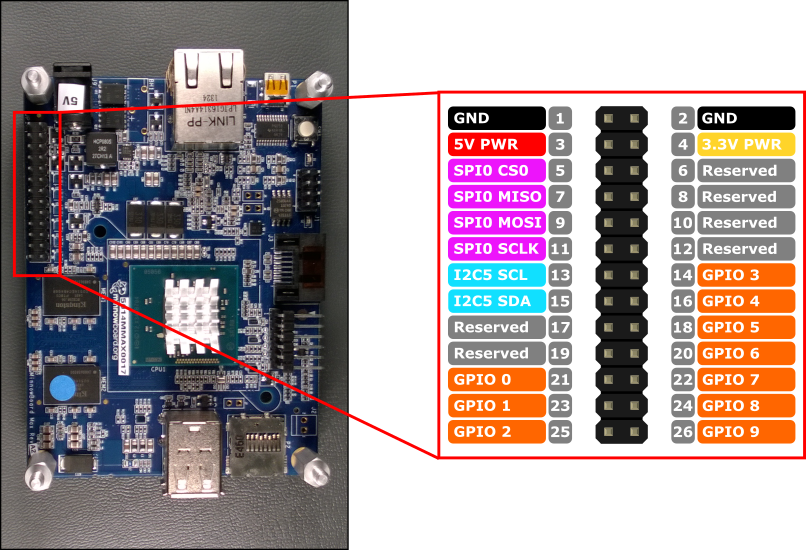
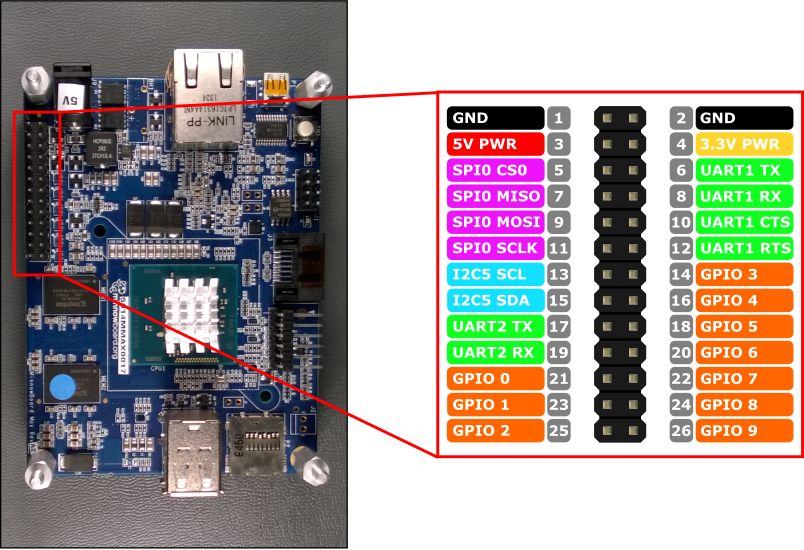
Adding Serial UART to MBM PinMappings

diff --git a/en-US/win10/samples/PinMappingsMBM.md b/en-US/win10/samples/PinMappingsMBM.md
@@ -13,6 +13,7 @@ lang: en-US
 Hardware interfaces for the MinnowBoard Max are exposed through the 26-pin header **JP1** on the board. Functionality includes:
 
 * **10x** - GPIO pins
+* **2x** - Serial UARTs
 * **1x** - SPI bus
 * **1x** - I2C bus
 * **1x** - 5V power pin
@@ -23,27 +24,29 @@ Note that the MinnowBoard Max uses 3.3V logic levels on all IO pins. In addition
  These level shifters appear as open collector outputs with a **10K&#x2126; resistive pull-up, and the pull-up is present regardless of whether the IO is set to input or output.**
  The open-collector nature of the level shifters means is that the pins can output a '0' strongly, but only weakly output a '1'. This is important to keep in mind when attaching devices which draw current from the pins (such as an LED). See the [Blinky Sample]({{site.baseurl}}/{{page.lang}}/win10/samples/Blinky.htm) for the correct way to interface an LED to the MinnowBoard Max.
 
-
 ##GPIO Pins
 
 The following GPIO pins are accessible through APIs:
 
-* **GPIO 0**
-* **GPIO 1**
-* **GPIO 2**
-* **GPIO 3**
-* **GPIO 4**
-* **GPIO 5**
-* **GPIO 6**
-* **GPIO 7**
-* **GPIO 8**
-* **GPIO 9**
-
+{:.table.table-bordered}
+| GPIO# | Header Pin         |
+|-------|--------------------|
+| 0     | 21                 |
+| 1     | 23                 |
+| 2     | 25                 |
+| 3     | 14                 |
+| 4     | 16                 |
+| 5     | 18                 |
+| 6     | 20                 |
+| 7     | 22                 |
+| 8     | 24                 |
+| 9     | 26                 |
+         
 As an example, the following code opens **GPIO 5** as an output and writes a digital '**1**' out on the pin:
-
+         
 {% highlight C# %}
 using Windows.Devices.Gpio;
-
+         
 public void GPIO()
 {
 	GpioController Controller = GpioController.GetDefault(); /* Get the default GPIO controller on the system */
@@ -52,6 +55,66 @@ public void GPIO()
 	Pin.SetDriveMode(GpioPinDriveMode.Output);  /* Set the IO direction as output   */
 	Pin.Write(GpioPinValue.High);               /* Output a digital '1'             */
 }
+{% endhighlight %}
+
+##Serial UART
+
+There are two Serial UARTS available on the MBM: **UART1** and **UART2**
+
+**UART1** has the standard **UART1 TX** and **UART1 RX** lines, along with flow control signals **UART1 CTS** and **UART1 RTS**.
+
+* Pin 6  - **UART1 TX**
+* Pin 8  - **UART1 RX**
+* Pin 10 - **UART1 CTS**
+* Pin 12 - **UART1 RTS**
+
+**UART2** includes just the **UART2 TX** and **UART2 RX** lines.
+
+* Pin 17  - **UART2 TX**
+* Pin 19  - **UART2 RX**
+
+The example below initializes **UART2** and performs a write followed by a read:
+
+
+{% highlight C# %}
+public async void Serial()
+{
+	string aqs = SerialDevice.GetDeviceSelector("UART2");                   /* Find the selector string for the serial device   */
+	var dis = await DeviceInformation.FindAllAsync(aqs);                    /* Find the serial device with our selector string  */
+	SerialDevice SerialPort = await SerialDevice.FromIdAsync(dis[0].Id);    /* Create an serial device with our selected device */
+
+	/* Configure serial settings */
+	SerialPort.WriteTimeout = TimeSpan.FromMilliseconds(1000);
+	SerialPort.ReadTimeout = TimeSpan.FromMilliseconds(1000);
+	SerialPort.BaudRate = 9600;
+	SerialPort.Parity = SerialParity.None;         
+	SerialPort.StopBits = SerialStopBitCount.One;
+	SerialPort.DataBits = 8;
+
+	/* Write a string out over serial */
+	string txBuffer = "Hello Serial";
+	DataWriter dataWriter = new DataWriter();
+	dataWriter.WriteString(txBuffer);
+	uint bytesWritten = await SerialPort.OutputStream.WriteAsync(dataWriter.DetachBuffer());
+
+	/* Read data in from the serial port */
+	const uint maxReadLength = 1024;
+	DataReader dataReader = new DataReader(SerialPort.InputStream);
+	uint bytesToRead = await dataReader.LoadAsync(maxReadLength);
+	string rxBuffer = dataReader.ReadString(bytesToRead);
+}
+{% endhighlight %}
+
+Note that you must add the following capability to the **Package.appxmanifest** file in your UWP project to run Serial UART code:
+
+{% highlight xml %}
+  <Capabilities>
+    <DeviceCapability Name="serialcommunication">
+      <Device Id="any">
+        <Function Type="name:serialPort" />
+      </Device>
+    </DeviceCapability>
+  </Capabilities>
 {% endhighlight %}
 
 ##I2C Bus
